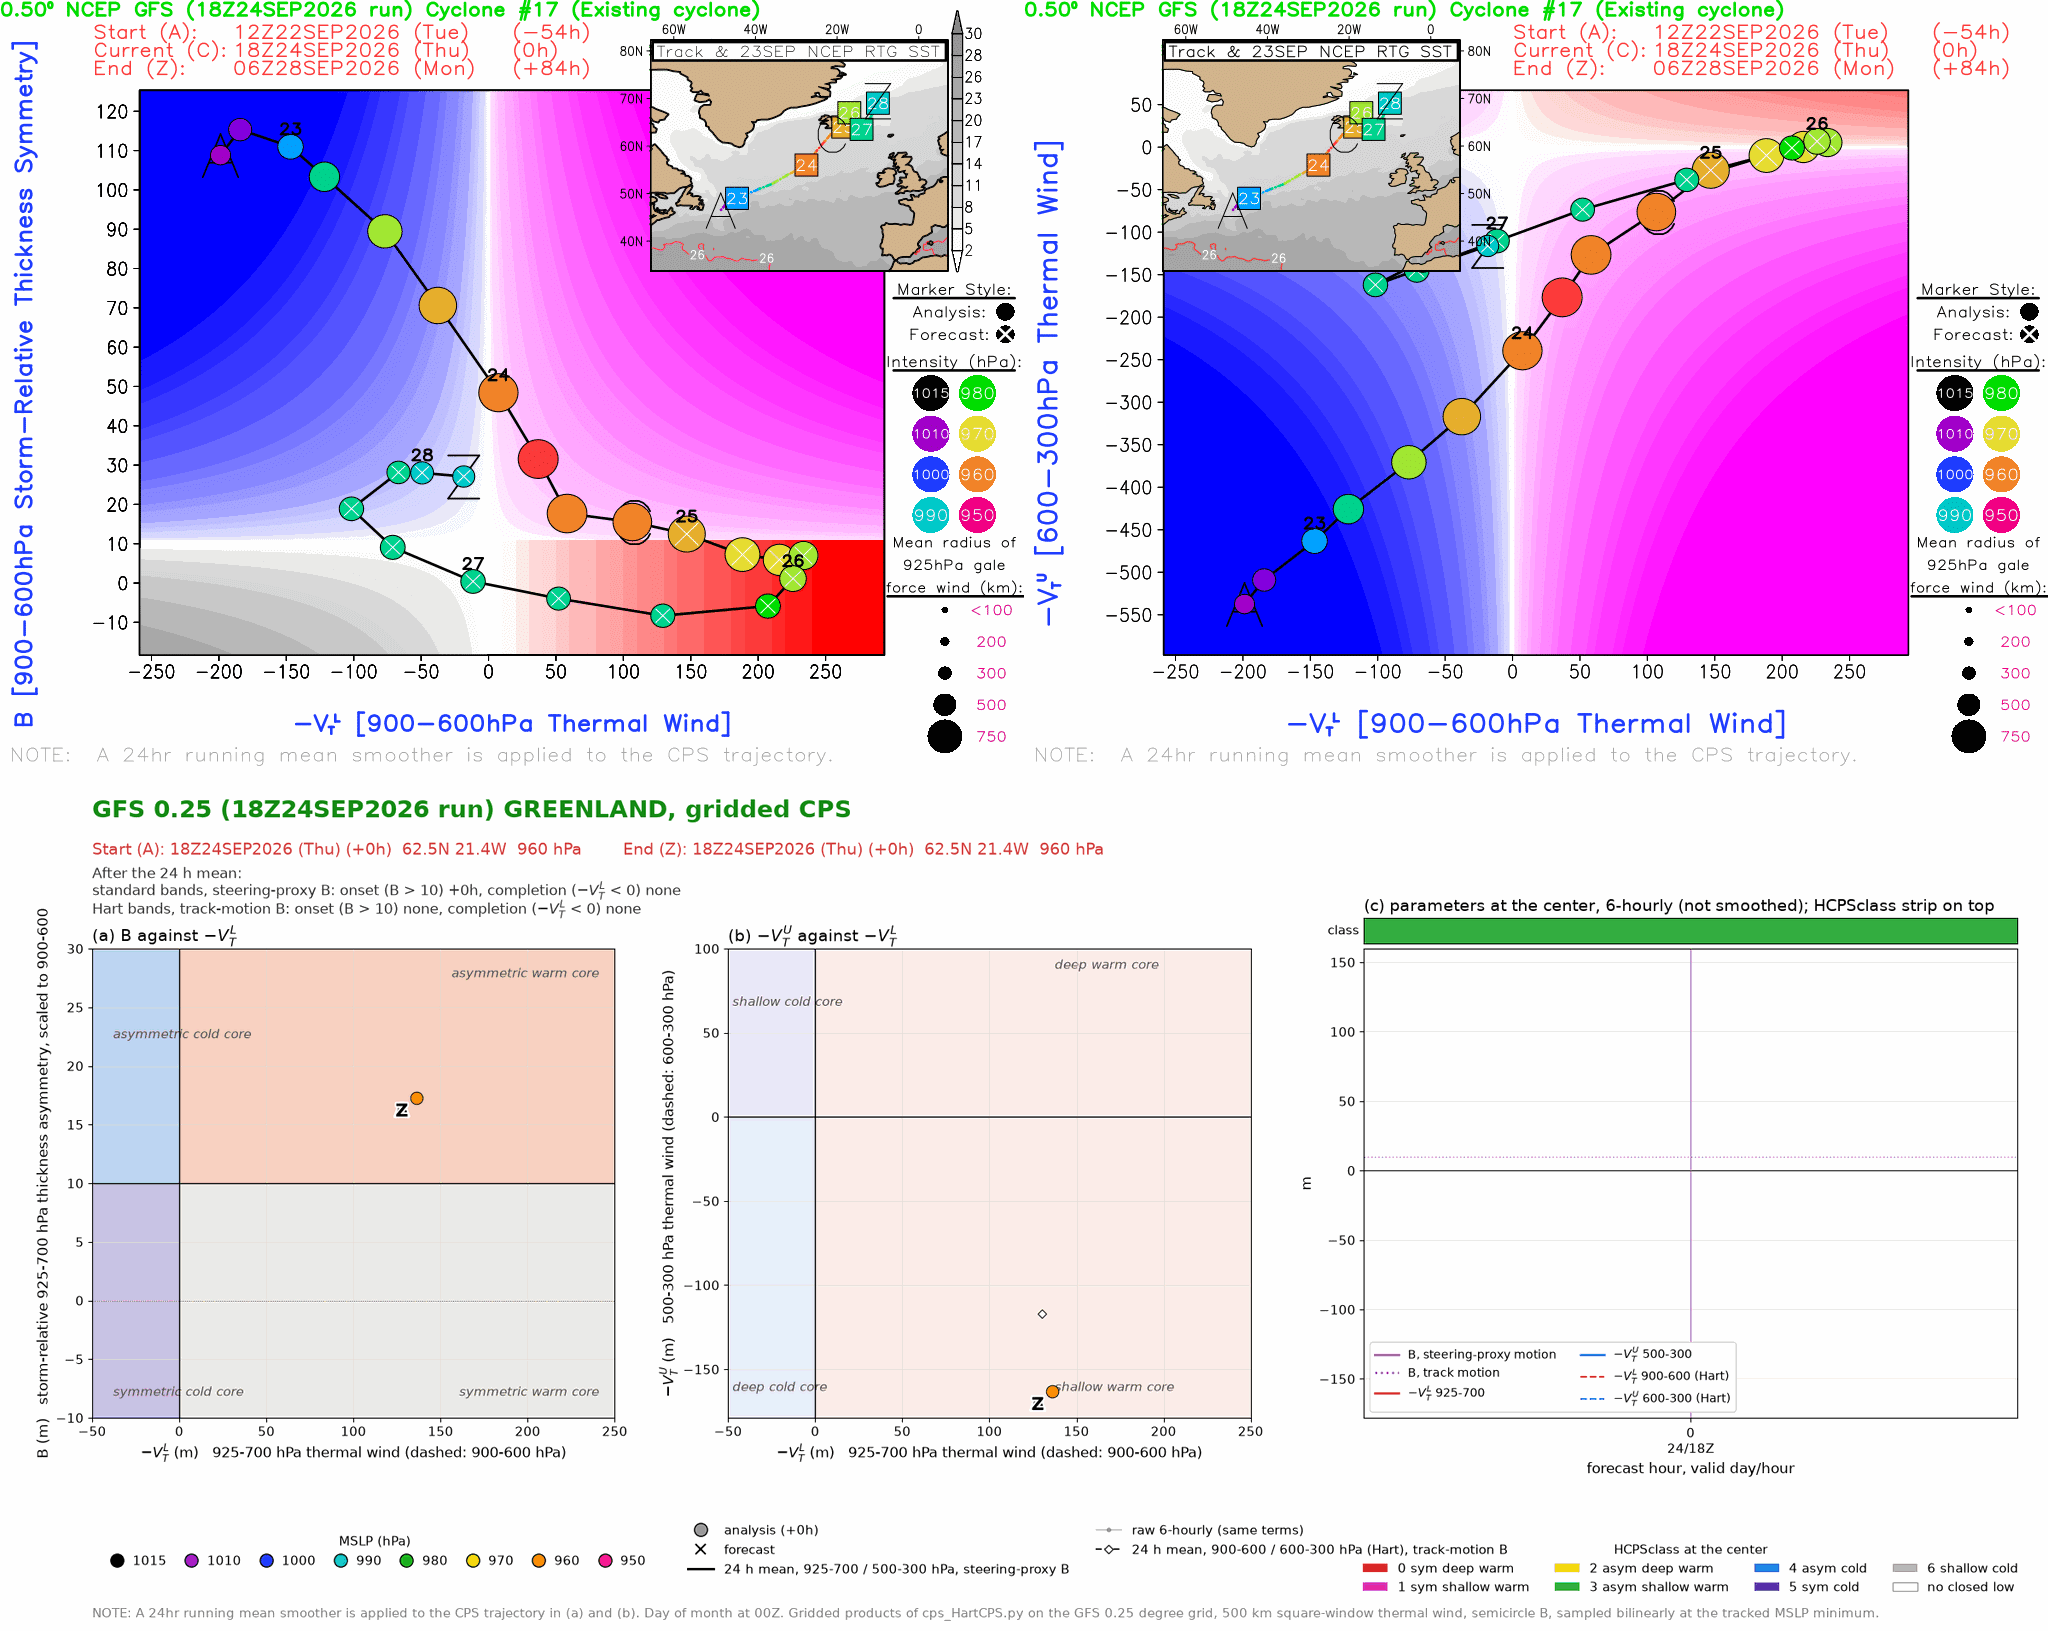
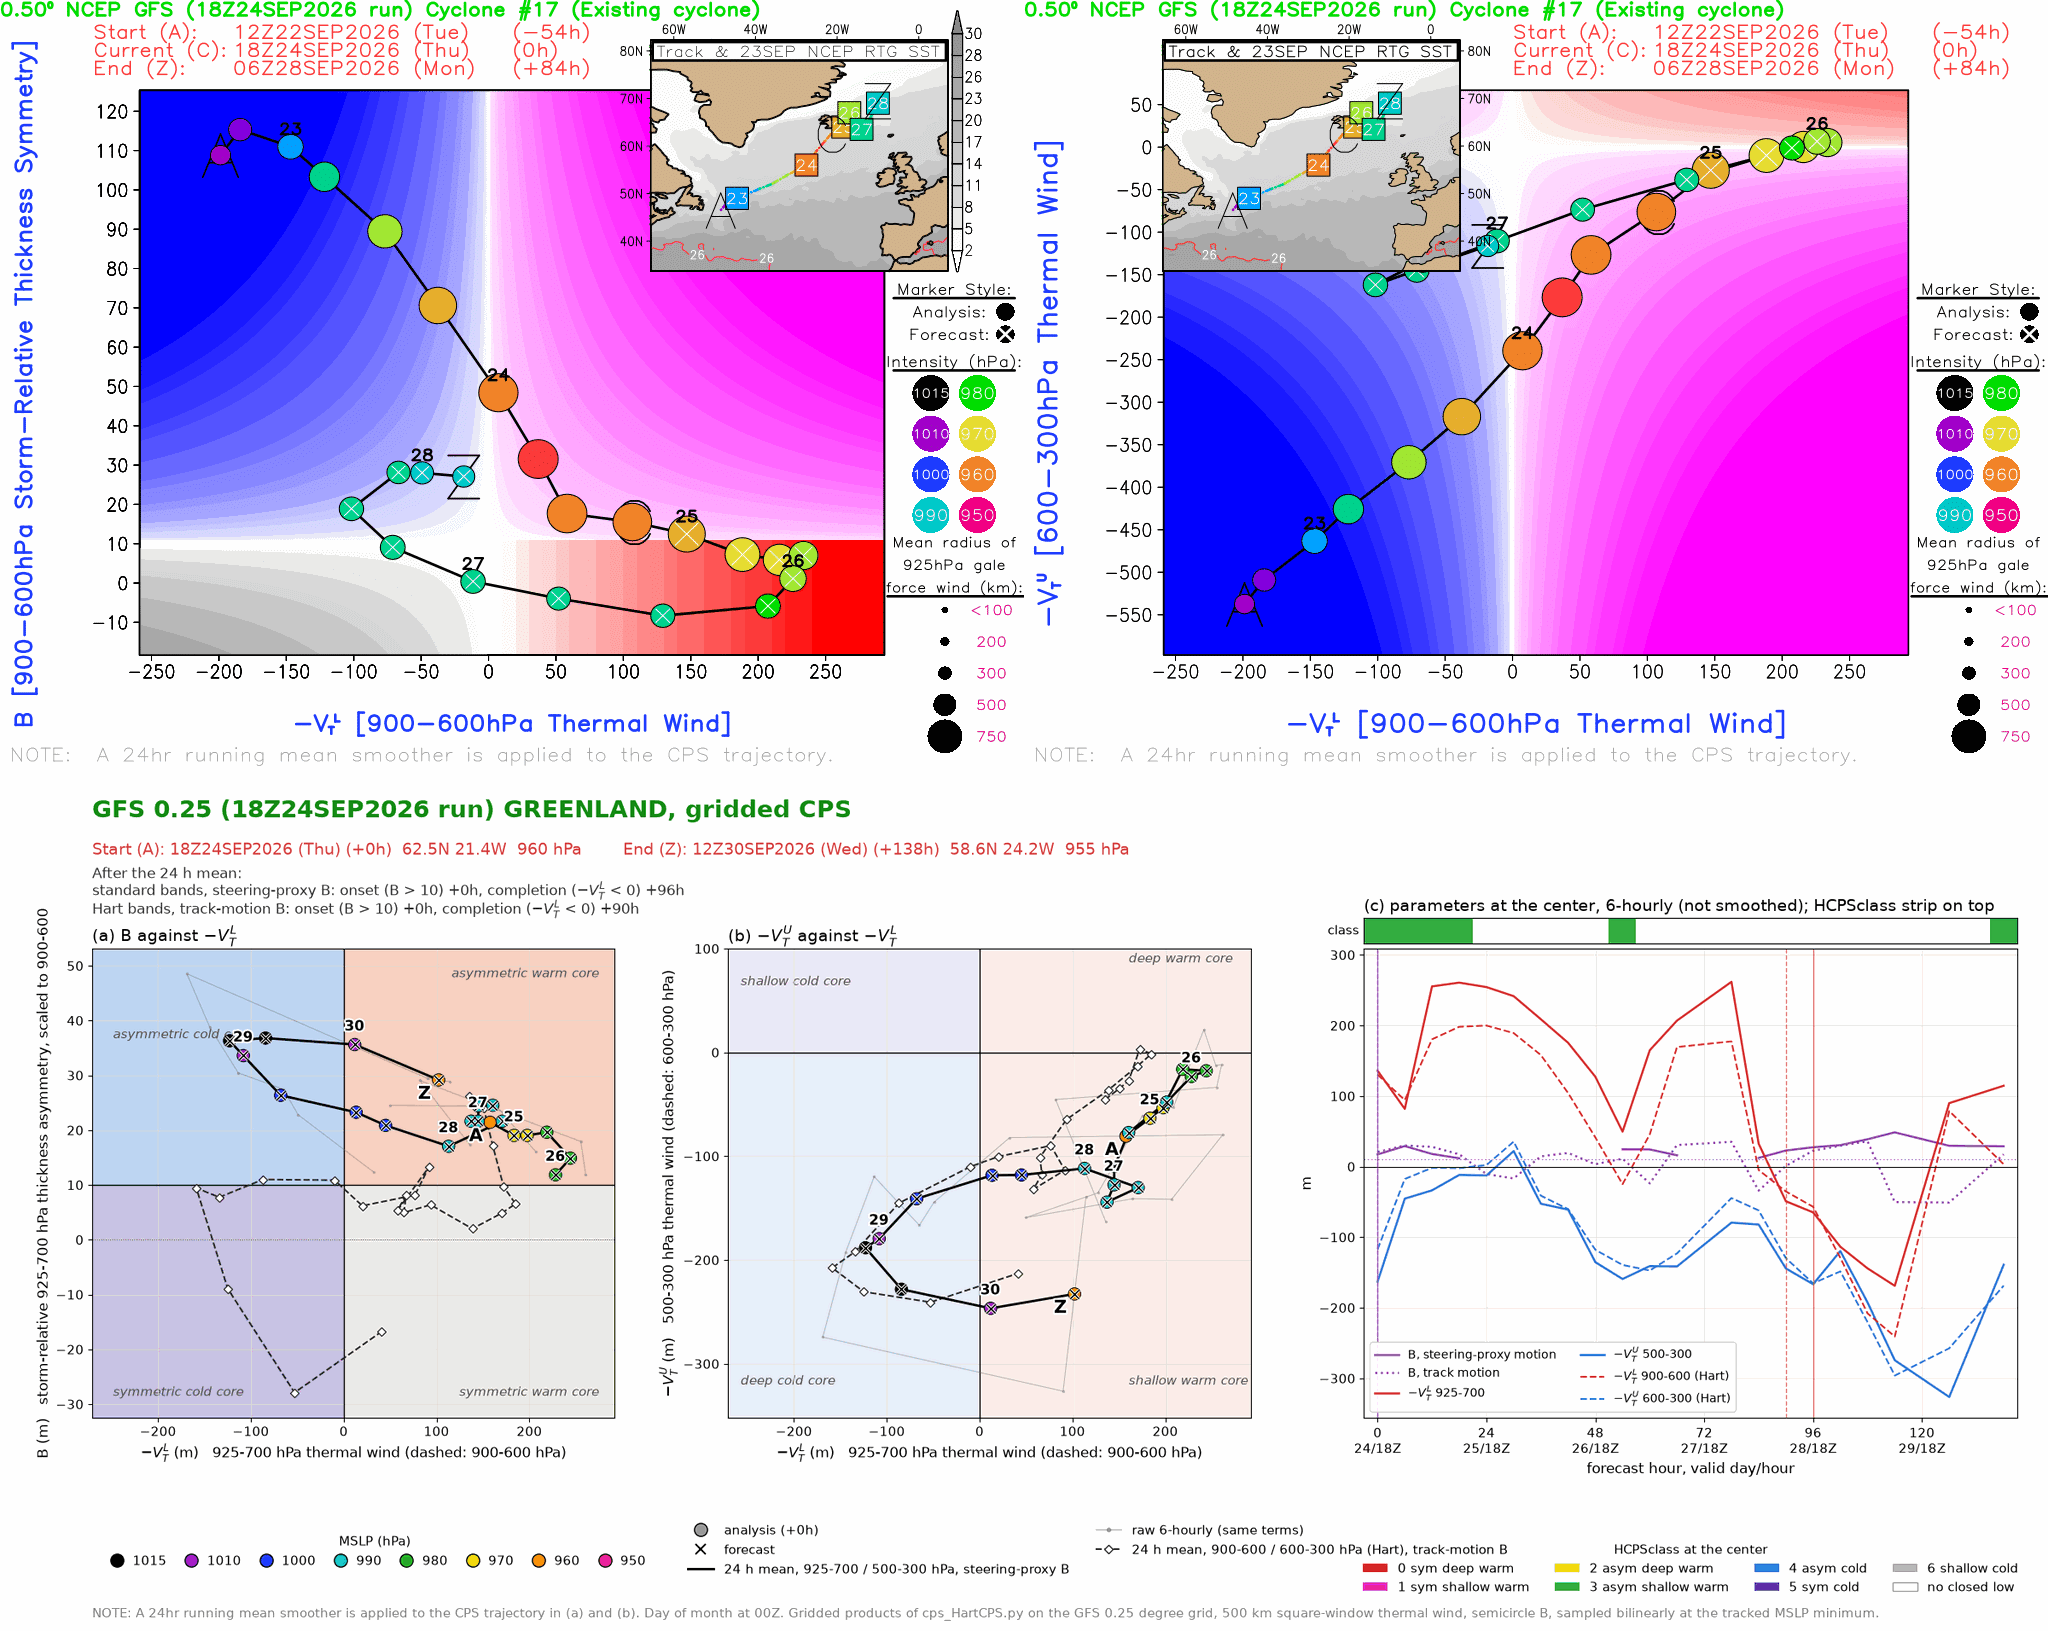
Mask terrain before the tracker's box-minimum test
Near Iceland the model's extrapolated MSLP over the highlands read a
few tenths of a hPa deeper than the real low beside it, so the real
minimum failed the local-minimum test and the terrain point was then
rejected by the surface-pressure rule, ending the track. Terrain
points are now masked before the test. The Greenland low in the
24 September 1800 UTC cycle tracks to 138 h instead of 0 h; the
24 September 1200 UTC tracks are unchanged. The 18Z data is
regenerated.

Claude-Session: https://claude.ai/code/session_019q8NWWmgCfoxLvyzmCH4VN

diff --git a/cyclone_phase_space/realtime/track_cps.py b/cyclone_phase_space/realtime/track_cps.py
@@ -167,16 +167,25 @@ def find_center(f: dict, lat: float, lon: float, radius_km: float, wrap: bool):
     the lowest of its +/- LOCAL_MIN_HALF box, below MAX_MSLP_HPA, where the
     surface pressure is at least MIN_PSFC_HPA. Returns (fi, fj, mslp_hpa) on
     the full grid, refined to a fraction of a cell by a parabola through the
-    minimum and its neighbors along each axis, or None."""
+    minimum and its neighbors along each axis, or None.
+
+    Terrain points (surface pressure below MIN_PSFC_HPA, where MSLP is
+    extrapolated well below ground) are masked out before the box-minimum
+    test, not just filtered from the candidate list afterward: otherwise an
+    artificially deep terrain reading (the Greenland ice cap, Iceland's
+    interior) can sit inside a genuine low's +/- 1 degree box and hide it,
+    since the real, slightly shallower minimum beside the terrain then no
+    longer looks like the lowest point of its own box."""
     fi, fj = frac_index(f, lat, lon)
     rows, cols, _, _ = subgrid(f, fi, fj, radius_km + 150.0, wrap)
     pm = f["pmsl"][np.ix_(rows, cols)] / 100.0
     la = f["lat"][rows][:, None]
     lo = f["lon"][cols][None, :]
-    ismin = local_minima(pm, LOCAL_MIN_HALF)
-    dist = gc_km(lat, lon, la, lo)
     ps = f["psfc"][np.ix_(rows, cols)] / 100.0
-    cand = np.argwhere(ismin & (dist <= radius_km) & (pm < MAX_MSLP_HPA) & (ps >= MIN_PSFC_HPA))
+    pm_ok = np.where(ps >= MIN_PSFC_HPA, pm, np.inf)
+    ismin = local_minima(pm_ok, LOCAL_MIN_HALF)
+    dist = gc_km(lat, lon, la, lo)
+    cand = np.argwhere(ismin & (dist <= radius_km) & (pm_ok < MAX_MSLP_HPA))
     if cand.size == 0:
         return None
     r, c = min(cand, key=lambda rc: dist[rc[0], rc[1]])

diff --git a/cyclone_phase_space/realtime/data/2026092418/summary.md b/cyclone_phase_space/realtime/data/2026092418/summary.md
@@ -5,7 +5,7 @@ Storm-following phase diagrams from the 18 UTC 2026-09-24 GFS 0.25 degree run, f
 | Storm | FSU | Start position | MSLP (hPa) | Track (h) | Class sequence (h) | Onset std | Completion std | Onset Hart | Completion Hart |
 |---|---|---|---|---|---|---|---|---|---|
 | [EPAC](EPAC/) | [1](http://moe.met.fsu.edu/cyclonephase/gfs/fcst/archive/26092418/1.html) | 14.8N 156.2W | 995 | 0-198 | - 0, 0 6-30, - 36-54, 0 60-120, 2 126-156, 0 162-192, 2 198 | 132 | none | 144 | none |
-| [GREENLAND](GREENLAND/) | [17](http://moe.met.fsu.edu/cyclonephase/gfs/fcst/archive/26092418/17.html) | 62.5N 21.4W | 960 | 0-0 | 3 0 | 0 | none | none | none |
+| [GREENLAND](GREENLAND/) | [17](http://moe.met.fsu.edu/cyclonephase/gfs/fcst/archive/26092418/17.html) | 62.5N 21.4W | 960 | 0-138 | 3 0-18, - 24-48, 3 54, - 60-126, 3 138 | 0 | 96 | 0 | 90 |
 | [LABRADOR](LABRADOR/) | [40](http://moe.met.fsu.edu/cyclonephase/gfs/fcst/archive/26092418/40.html) | 60.9N 55.4W | 1001 | 0-90 | 4 0-30, - 36, 4 42-72, 3 78-84, - 90 | 0 | 0 | 0 | 0 |
 
 Class codes (HCPSclass at the center): 0 sym deep warm, 1 sym shallow warm, 2 asym deep warm, 3 asym shallow warm, 4 asym cold, 5 sym cold, 6 shallow cold; - no closed low.

diff --git a/cyclone_phase_space/realtime/README.md b/cyclone_phase_space/realtime/README.md
@@ -188,7 +188,13 @@ candidate nearest the first guess wins. A minimum of 1018 hPa or more
 is not a candidate (FSU's tracker uses the same limit, and a filled low
 otherwise hands over to any weak minimum nearby), nor is one where the
 surface pressure is under 950 hPa (terrain above about 500 m, where
-MSLP is extrapolated: the Greenland ice cap, Iceland's interior). If
+MSLP is extrapolated: the Greenland ice cap, Iceland's interior). A
+terrain point is masked out before the box-minimum test itself, not
+just dropped from the candidate list afterward, so an artificially deep
+terrain reading cannot sit inside a genuine low's box and hide the
+real, slightly shallower minimum beside it (a low crossing Iceland's
+highlands otherwise loses its box-minimum status to the terrain point
+next to it and the track ends). If
 there is none, the track coasts one frame on the extrapolated motion (that frame is left out of
 the table) and tries again with the larger radius; a second miss ends
 it. An optional FHR1 in the spec (`NAME:LAT,LON:0:96`) stops the track
